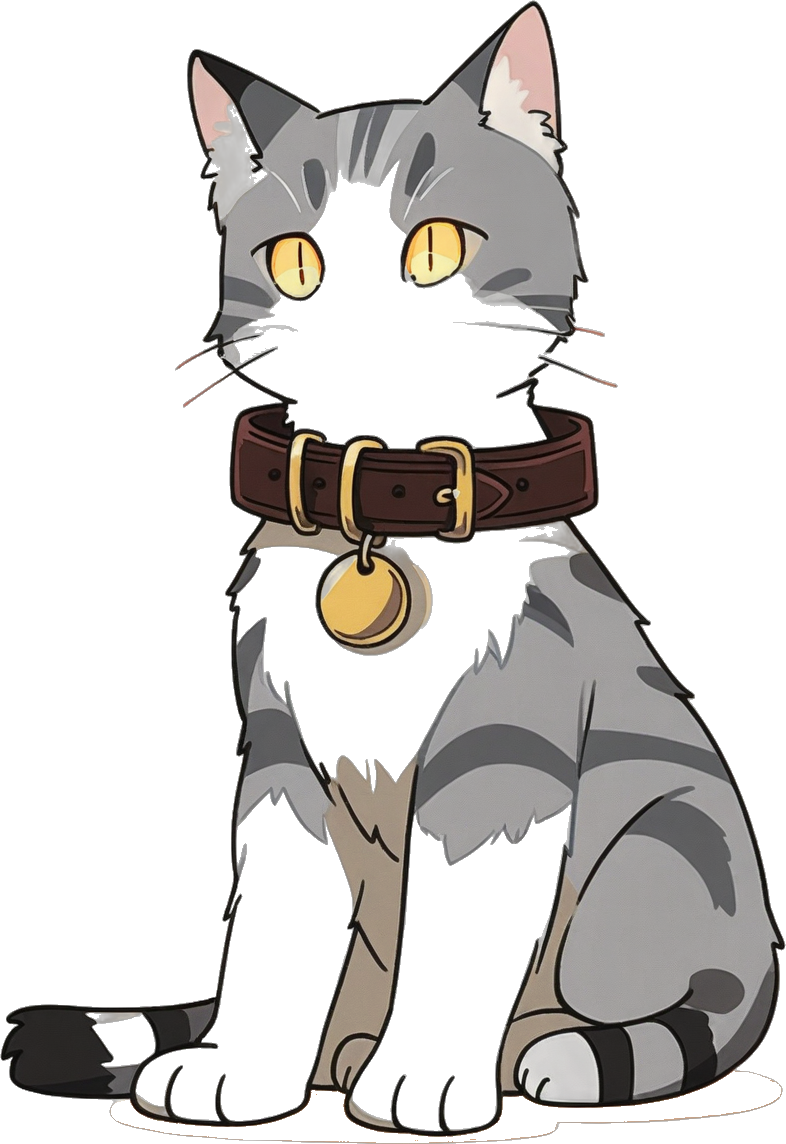
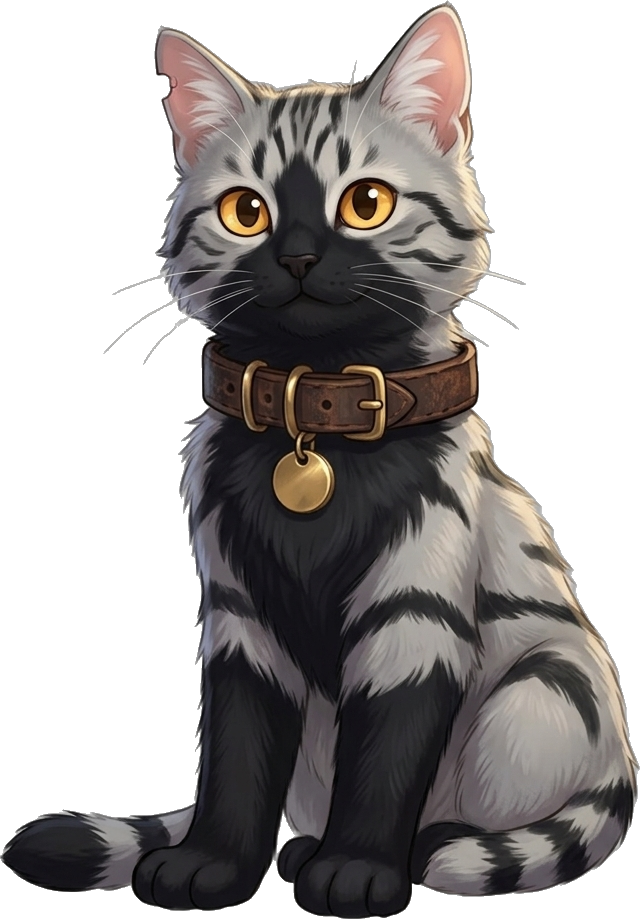
Hand-refined art for all 26 assets, Ash hint rebuilt from new cat, dialogue frame preloaded before first line

diff --git a/js/app.js b/js/app.js
@@ -38,6 +38,30 @@
     dialogCtx: null
   };
 
+  /* dialogue frame preload: the box must never appear before its parchment frame */
+  var frameReady = false;
+  var frameQueue = [];
+  function whenFrameReady(fn) {
+    if (frameReady) { fn(); return; }
+    frameQueue.push(fn);
+  }
+  function preloadDialogueUi() {
+    var markReady = function () {
+      if (frameReady) { return; }
+      frameReady = true;
+      var q = frameQueue.splice(0);
+      q.forEach(function (f) { f(); });
+    };
+    var frame = new Image();
+    frame.onload = markReady;
+    frame.onerror = markReady;
+    frame.src = "assets/UI_dialogue_frame.png";
+    if (frame.complete) { markReady(); }
+    setTimeout(markReady, 2500);
+    var plate = new Image();
+    plate.src = "assets/UI_name_plate.png";
+  }
+
   /* ---------------- persistence ---------------- */
 
   var memSave = null;
@@ -314,19 +338,21 @@
   }
 
   function renderDialogue(item) {
-    els.choices.innerHTML = "";
-    els.dialogue.hidden = false;
-    var sc = SCENES[state.scene];
-    if (item.sp && sc.cast && sc.cast[item.sp]) {
-      /* sprite already present; ensure it is visible */
-    }
-    els.nameplate.hidden = !item.sp;
-    els.nameplate.textContent = item.sp || "";
-    els.lineText.className = item.sp ? "line" : "line narration";
-    els.lineRu.hidden = !(item.ru && state.lang === "both");
-    els.lineRu.textContent = item.ru || "";
-    state.hint = item.hint || sc.objective || "";
-    typeText(item.t || "");
+    whenFrameReady(function () {
+      els.choices.innerHTML = "";
+      els.dialogue.hidden = false;
+      var sc = SCENES[state.scene];
+      if (item.sp && sc.cast && sc.cast[item.sp]) {
+        /* sprite already present; ensure it is visible */
+      }
+      els.nameplate.hidden = !item.sp;
+      els.nameplate.textContent = item.sp || "";
+      els.lineText.className = item.sp ? "line" : "line narration";
+      els.lineRu.hidden = !(item.ru && state.lang === "both");
+      els.lineRu.textContent = item.ru || "";
+      state.hint = item.hint || sc.objective || "";
+      typeText(item.t || "");
+    });
   }
 
   function typeText(text) {
@@ -632,14 +658,16 @@
     var total = cfg.hotspots.length;
 
     function finishClues() {
-      els.dialogue.hidden = false;
-      els.nameplate.hidden = true;
-      els.lineRu.hidden = true;
-      els.lineText.className = "line narration";
-      els.lineText.textContent = "You found everything. Time to continue.";
-      els.btnNext.hidden = false;
-      els.hotspots.innerHTML = "";
-      els.hotspots.classList.remove("searching");
+      whenFrameReady(function () {
+        els.dialogue.hidden = false;
+        els.nameplate.hidden = true;
+        els.lineRu.hidden = true;
+        els.lineText.className = "line narration";
+        els.lineText.textContent = "You found everything. Time to continue.";
+        els.btnNext.hidden = false;
+        els.hotspots.innerHTML = "";
+        els.hotspots.classList.remove("searching");
+      });
     }
 
     function place(x, y, w, h, cls, handler) {
@@ -868,6 +896,7 @@
   }
 
   document.addEventListener("DOMContentLoaded", function () {
+    preloadDialogueUi();
     wire();
     initTitle();
     showScreen("title");

diff --git a/index.html b/index.html
@@ -120,7 +120,7 @@
   </div>
 </div>
 
-<script src="js/story.js?v=2"></script>
-<script src="js/app.js?v=2"></script>
+<script src="js/story.js?v=3"></script>
+<script src="js/app.js?v=3"></script>
 </body>
 </html>
